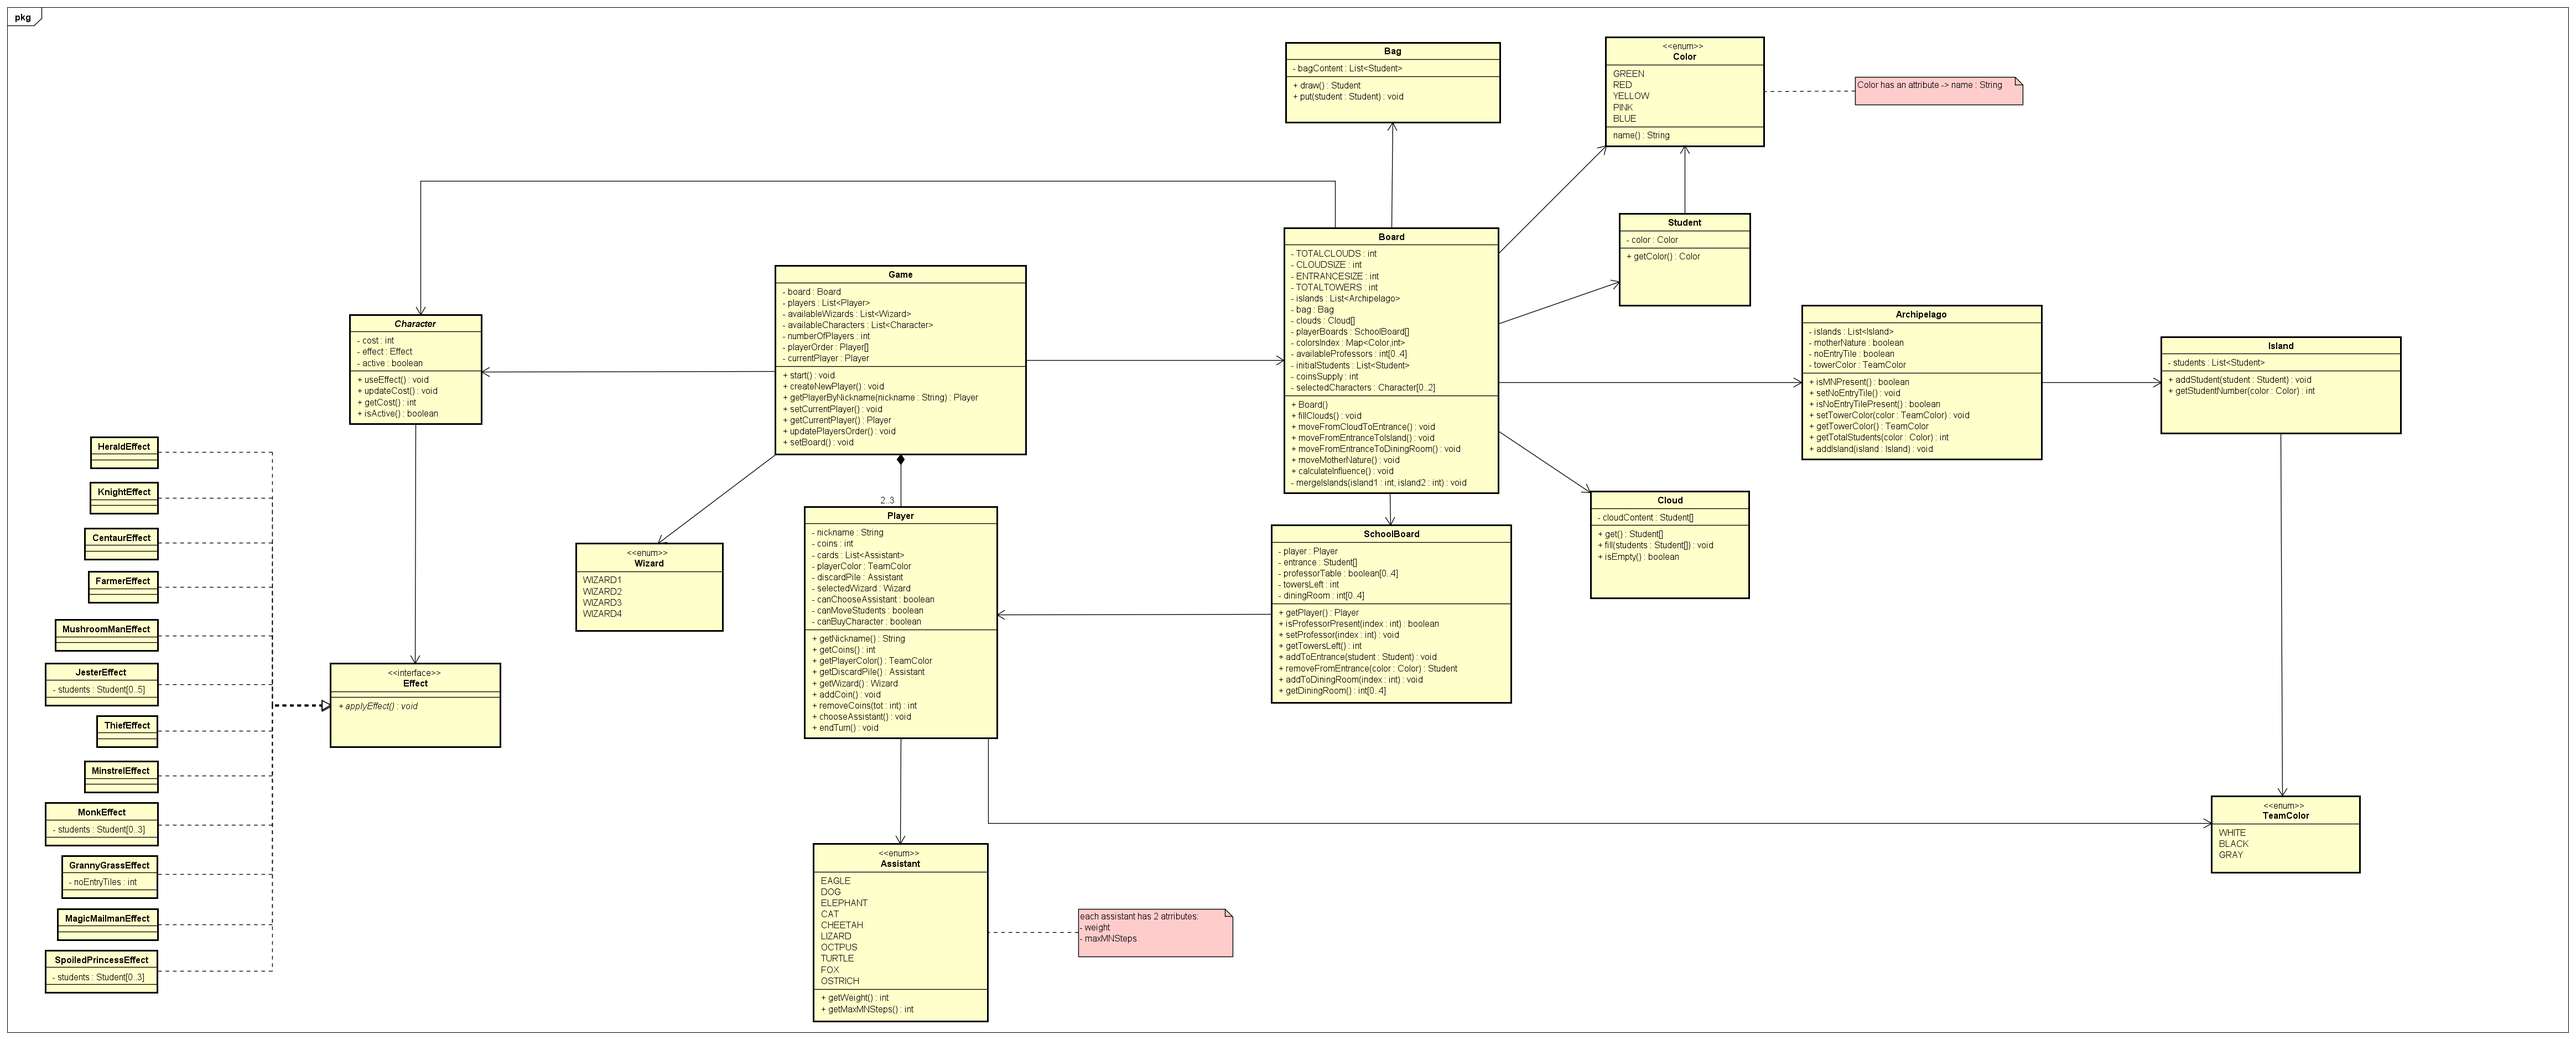
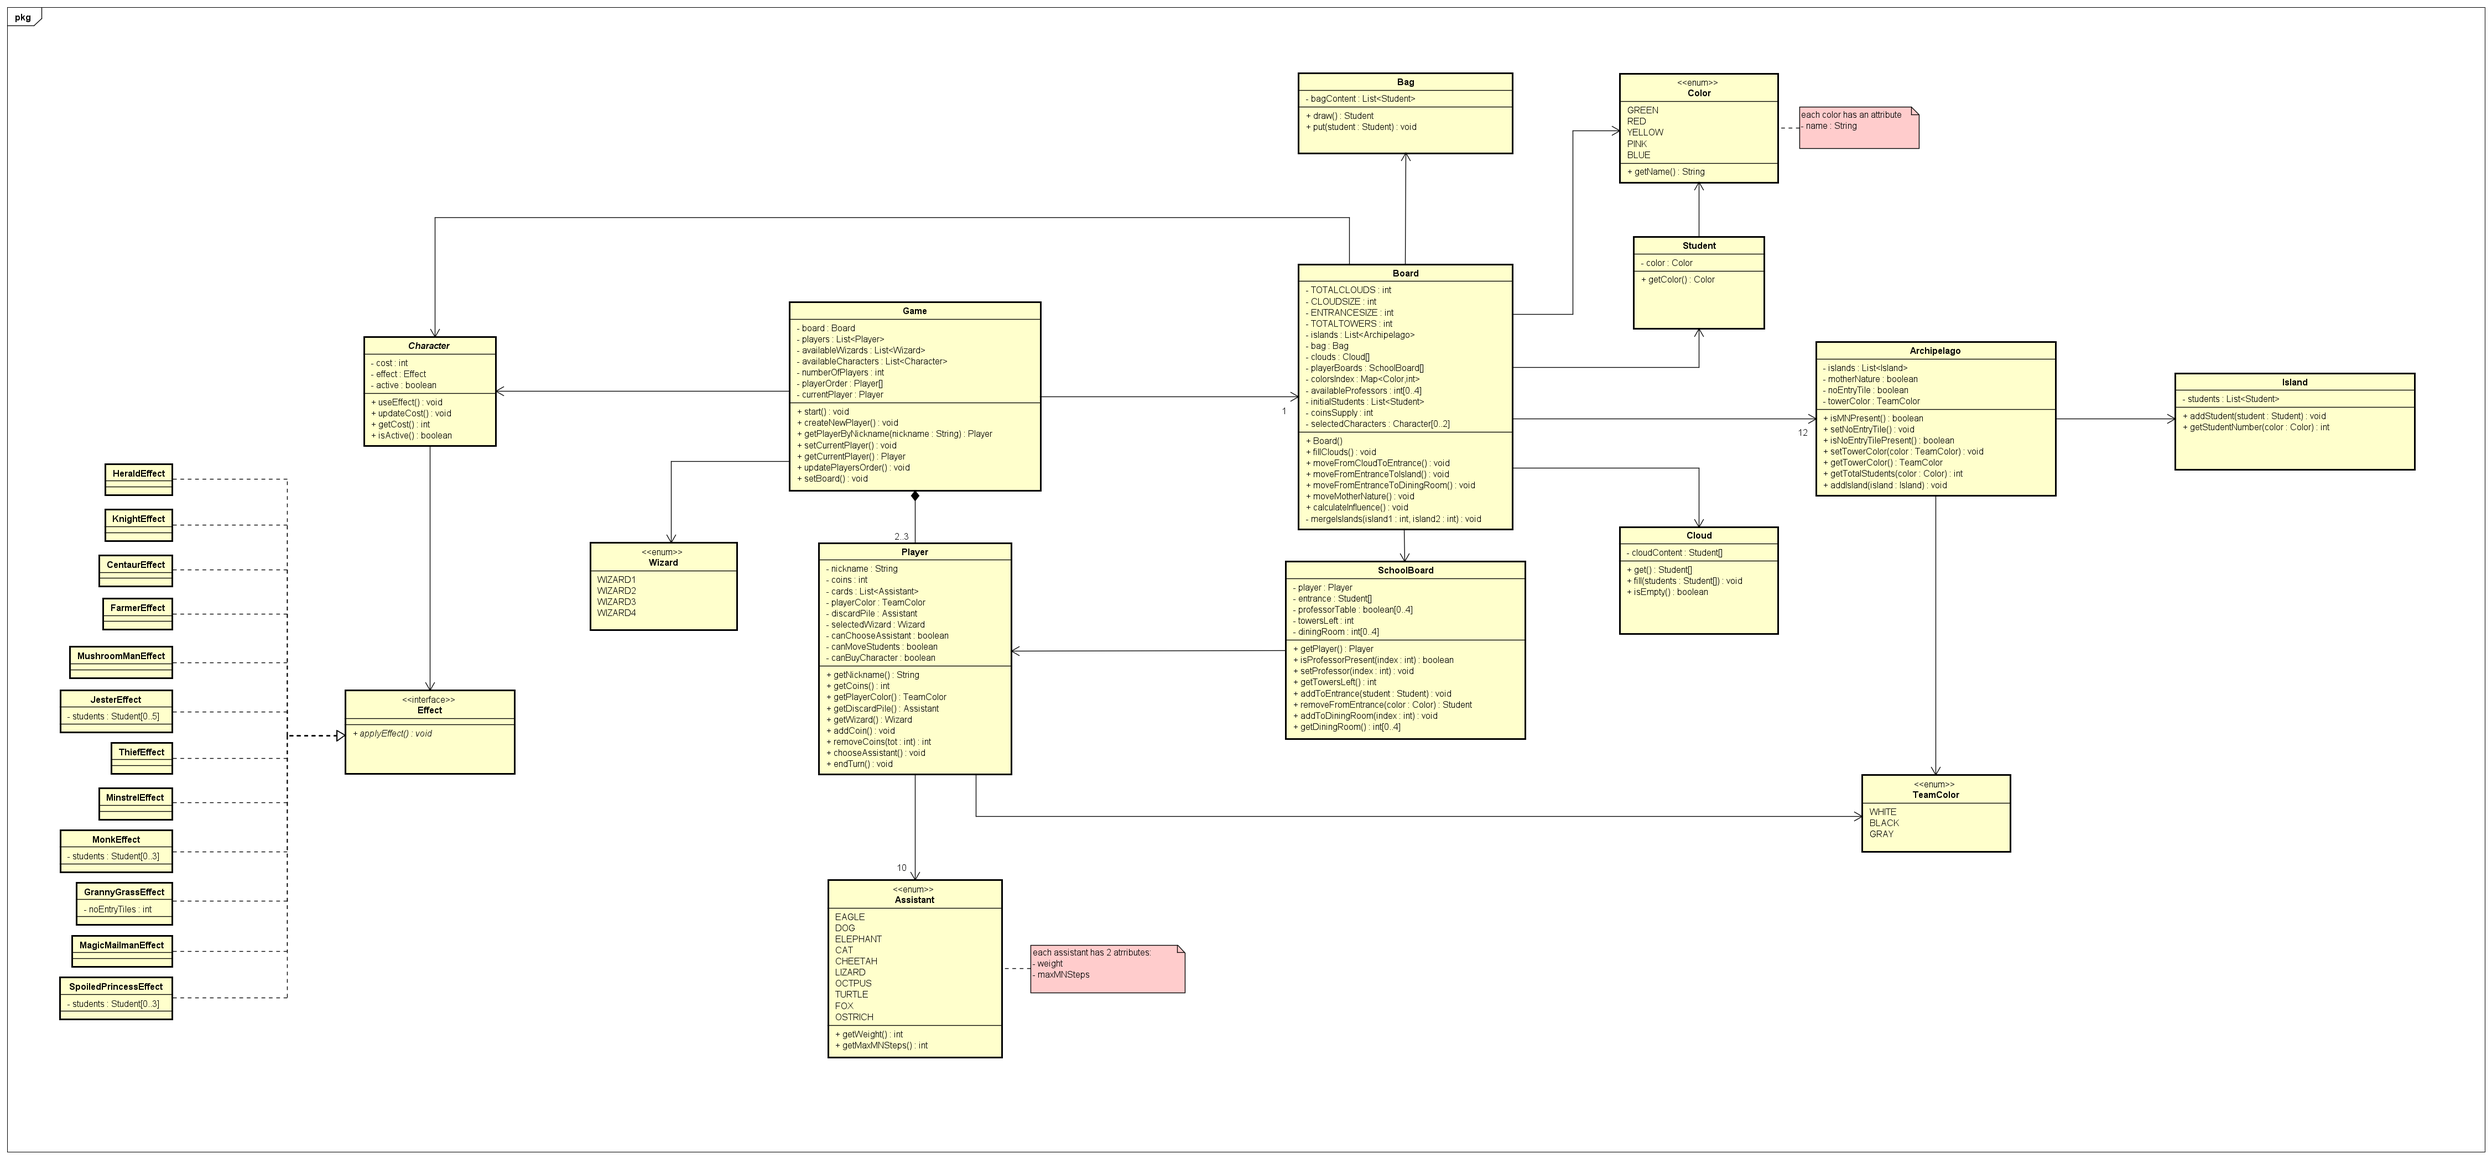
ENUM classes (#1)
* added Assistant ENUM

* updated UML and added other ENUMs

* Modified the value of maxMNSteps for Lizard and Ostrich

diff --git a/src/main/java/it/polimi/ingsw/model/Assistant.java b/src/main/java/it/polimi/ingsw/model/Assistant.java
@@ -1,0 +1,23 @@
+package it.polimi.ingsw.model;
+
+public enum Assistant {
+    EAGLE(4, 2), DOG(8, 4), ELEPHANT(9, 5), CAT(3, 2),
+    CHEETAH(1, 1), LIZARD(6, 3), OCTOPUS(7, 4), TURTLE(10, 5),
+    FOX(5, 3), OSTRICH(2, 1);
+
+    private final int weight;
+    private final int maxMNSteps;
+
+    Assistant(int weight, int maxMNSteps) {
+        this.weight = weight;
+        this.maxMNSteps = maxMNSteps;
+    }
+
+    public int getWeight() {
+        return weight;
+    }
+
+    public int getMaxMNSteps() {
+        return maxMNSteps;
+    }
+}

diff --git a/src/main/java/it/polimi/ingsw/model/Color.java b/src/main/java/it/polimi/ingsw/model/Color.java
@@ -1,0 +1,16 @@
+package it.polimi.ingsw.model;
+
+public enum Color {
+    GREEN("Green"), RED("Red"), YELLOW("Yellow"), PINK("Pink"), BLUE("Blue");
+
+    private final String name;
+
+    Color(String name) {
+        this.name = name;
+    }
+
+    public String getName() {
+        return name;
+    }
+
+}

diff --git a/src/main/java/it/polimi/ingsw/model/Wizard.java b/src/main/java/it/polimi/ingsw/model/Wizard.java
@@ -1,0 +1,6 @@
+package it.polimi.ingsw.model;
+
+public enum Wizard {
+    WIZARD1, WIZARD2, WIZARD3, WIZARD4
+
+}

diff --git a/src/main/java/it/polimi/ingsw/model/TeamColor.java b/src/main/java/it/polimi/ingsw/model/TeamColor.java
@@ -1,0 +1,6 @@
+package it.polimi.ingsw.model;
+
+public enum TeamColor {
+    WHITE, BLACK, GREY
+
+}
